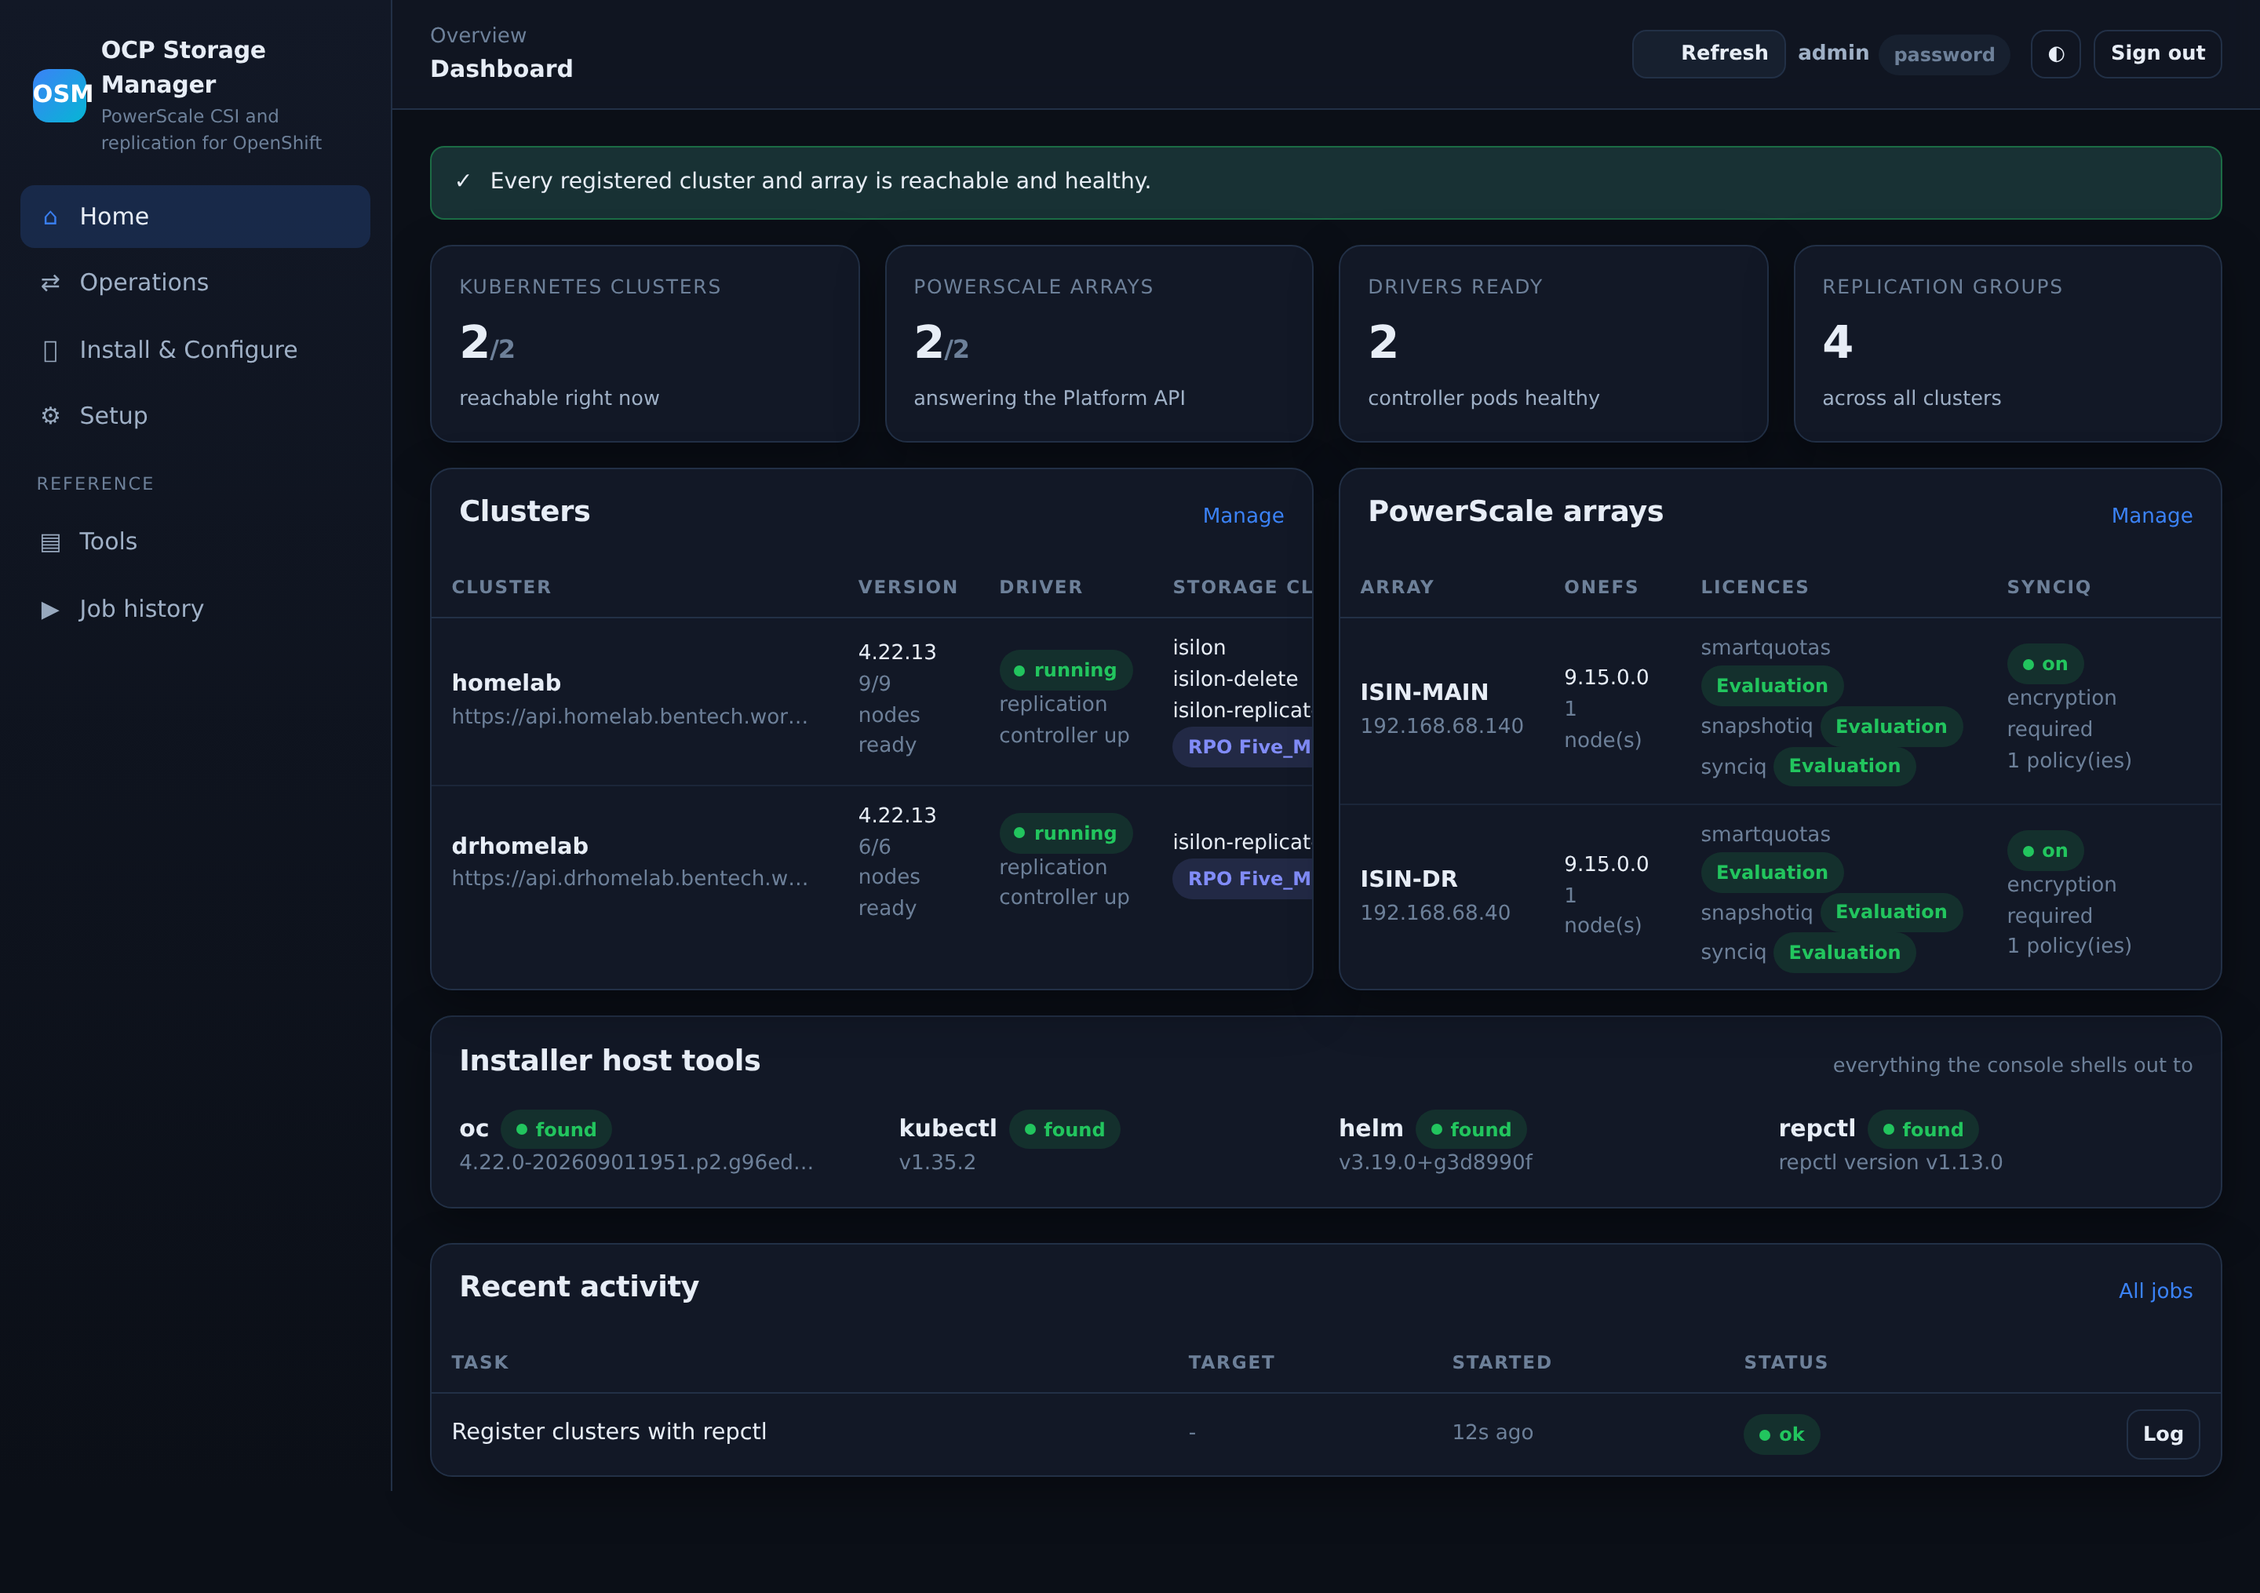
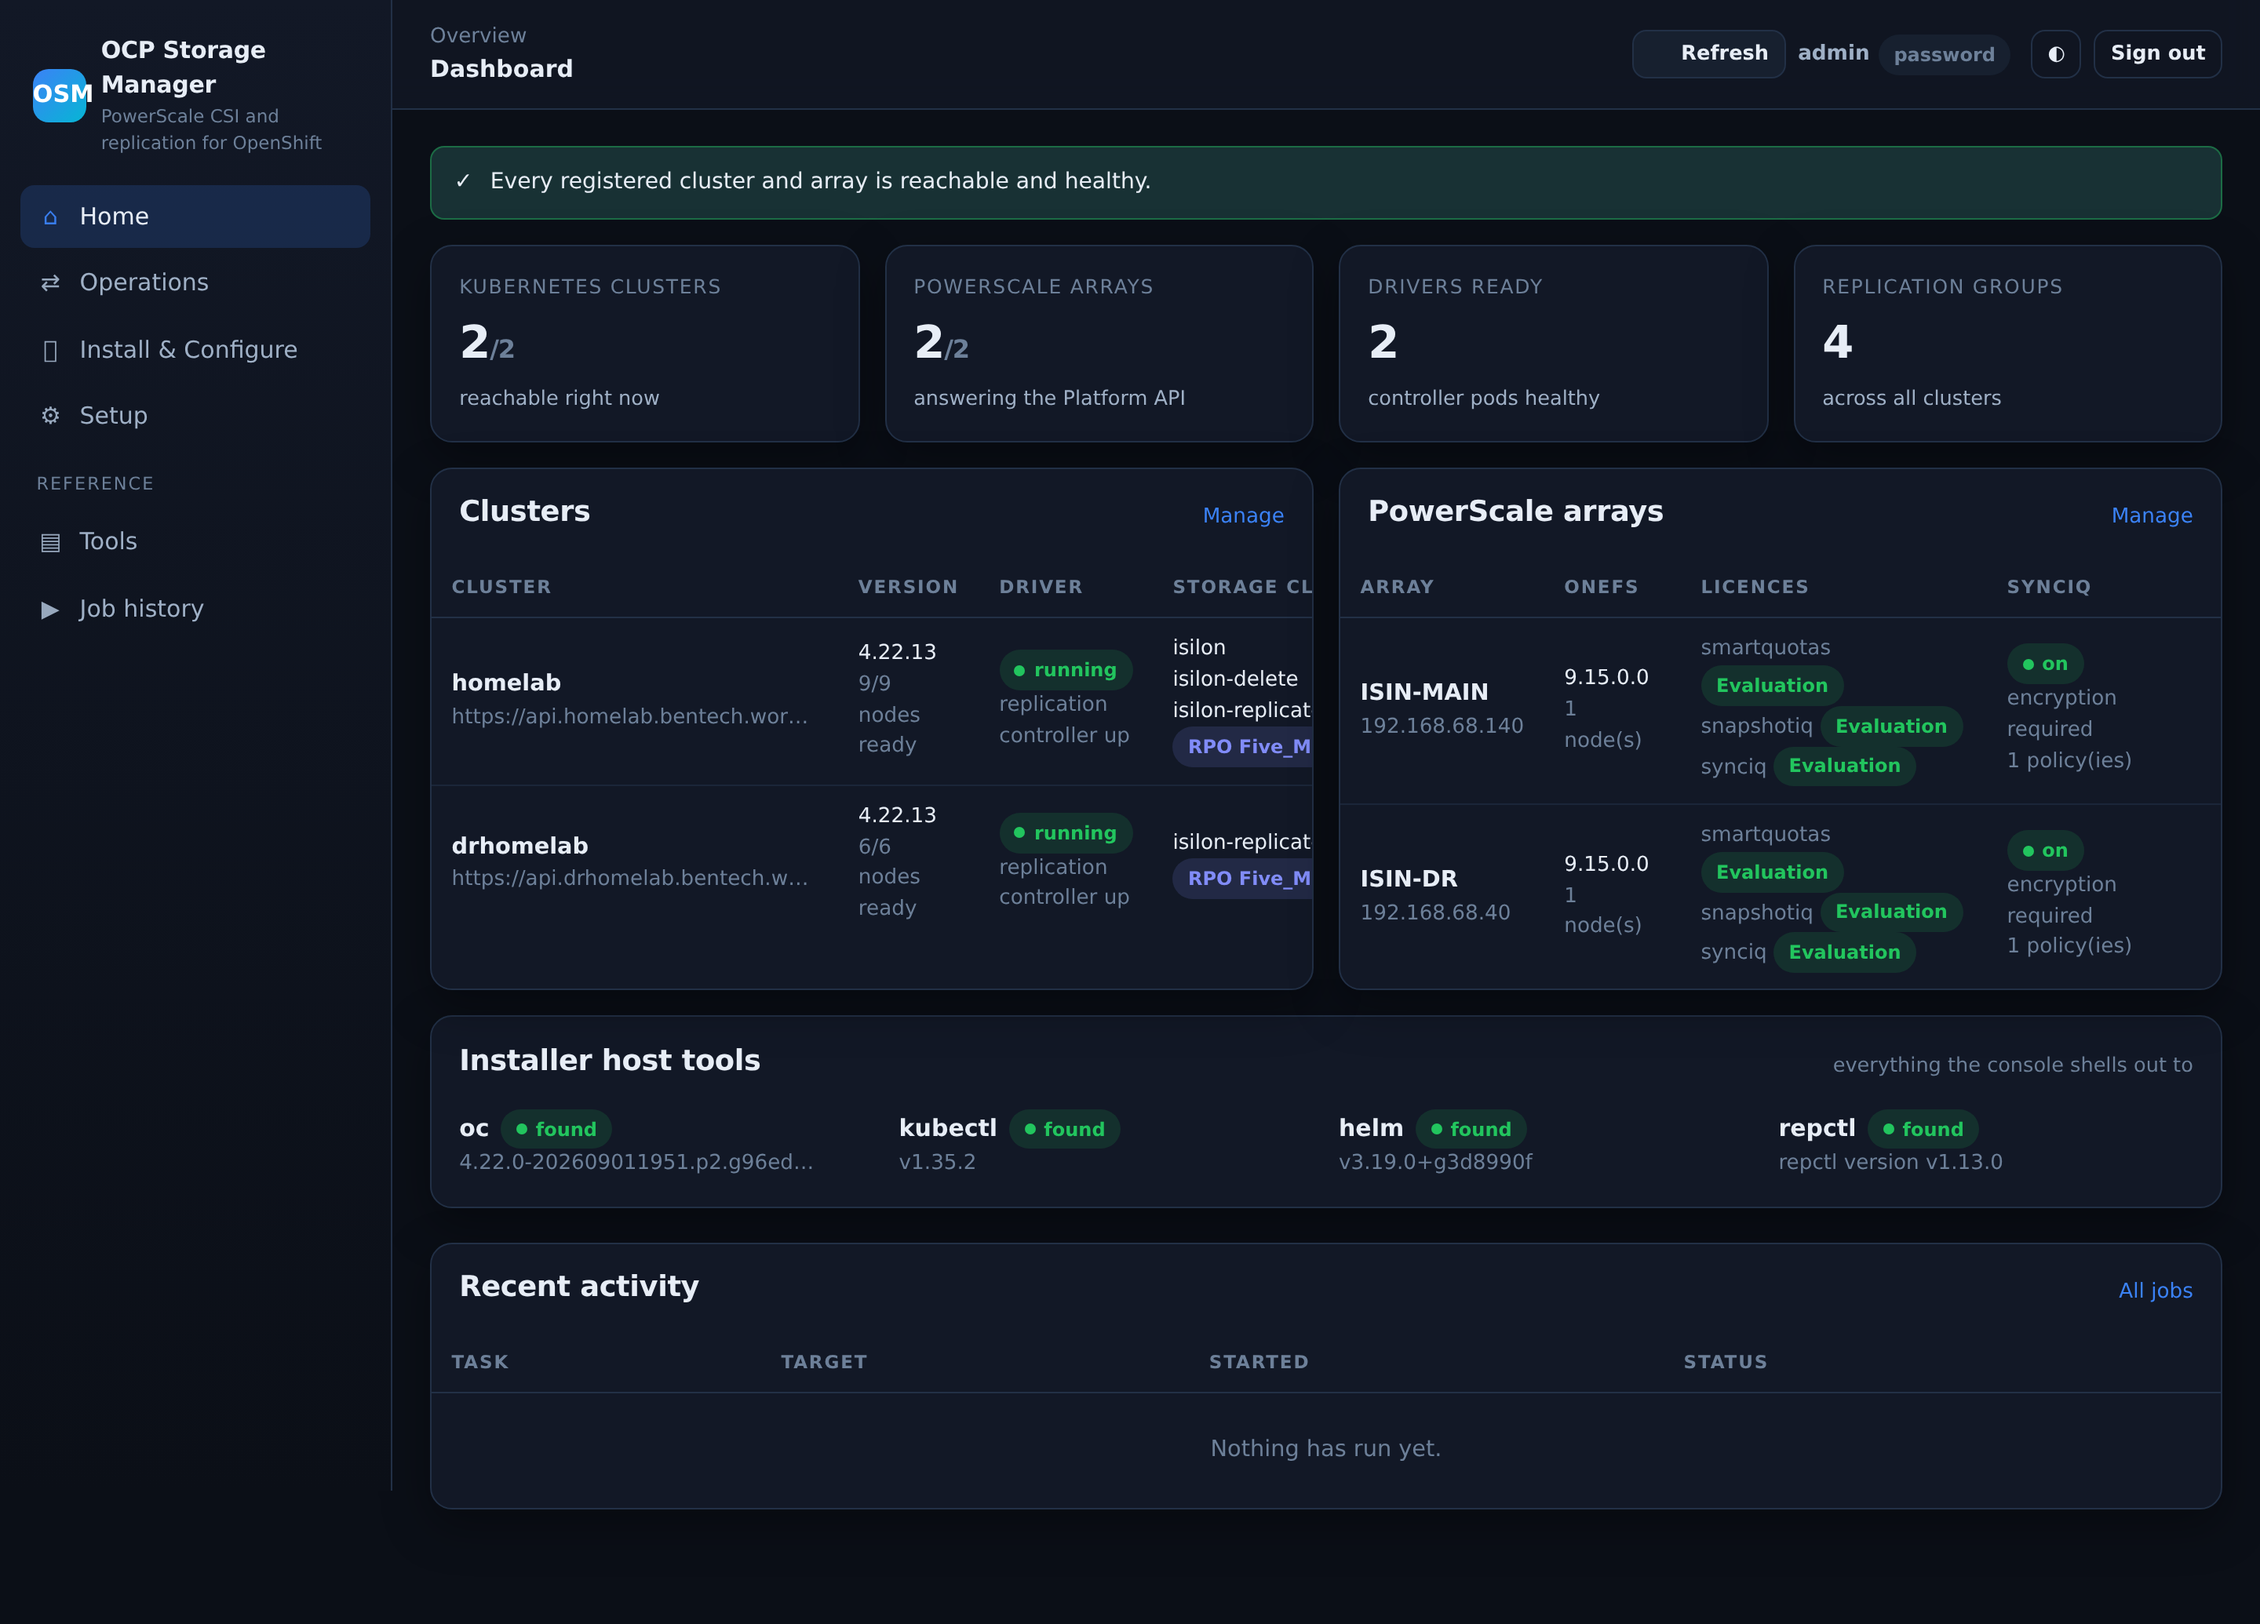
Never let an authentication change cost the local account
Saving single sign-on settings leaves the local account and its password alone, and
the request to switch local sign-in off is ignored while single sign-on is disabled,
which would otherwise lock everyone out. The Setup page says so, and the screenshots
are refreshed, including the sign-in page.

diff --git a/app/app/templates/setup.html b/app/app/templates/setup.html
@@ -66,6 +66,9 @@
   <div class="card">
     <div class="card-head"><div><h2>Single sign-on</h2>
       <div class="sub">Microsoft Entra ID or any OpenID Connect provider</div></div></div>
+    <div class="banner"><span>🔑</span>
+      <div>These settings never touch the local account. It stays available, with the same
+        password, so a directory that is misconfigured or unreachable cannot lock you out.</div></div>
     <form hx-post="/setup/oidc" hx-target="body">
       <div class="check"><input type="checkbox" id="oidcon" name="enabled" {% if setup.oidc.enabled %}checked{% endif %}>
         <label for="oidcon">Offer single sign-on on the login page</label></div>

diff --git a/app/app/routers/setup.py b/app/app/routers/setup.py
@@ -75,10 +75,18 @@ async def save_oidc(request: Request, enabled: str = Form(""), provider: str = F
         "scope": scope.strip() or "openid profile email",
         "method": "password",
     }
+    # The local account is the way back in, so it is never removed here, and it cannot be
+    # switched off until single sign-on is actually enabled.
+    warning = ""
+    if local_login != "always" and not cfg["enabled"]:
+        local_login = "always"
+        warning = (" Local sign-in was left on, because single sign-on is not enabled yet and that "
+                   "would have locked everyone out.")
     store.update(lambda s: s["setup"].update({"oidc": cfg, "local_login": local_login}))
-    notice = "Single sign-on settings saved."
+    notice = "Single sign-on settings saved. The local account and its password are unchanged."
+    notice += warning
     if cfg["enabled"]:
-        notice += " Sign-in with the provider appears on the login page."
+        notice += " The provider now appears in the list on the login page."
     return await setup_page(request, notice=notice)
 
 

diff --git a/README.md b/README.md
@@ -8,6 +8,8 @@ database, so it runs happily on a disconnected installer host.
 
 ![Dashboard](docs/screenshots/home.png)
 
+![Sign in](docs/screenshots/login.png)
+
 ## What it does
 
 * Installs the PowerScale driver either with the **Dell CSM Operator** or with the **Helm chart**,
